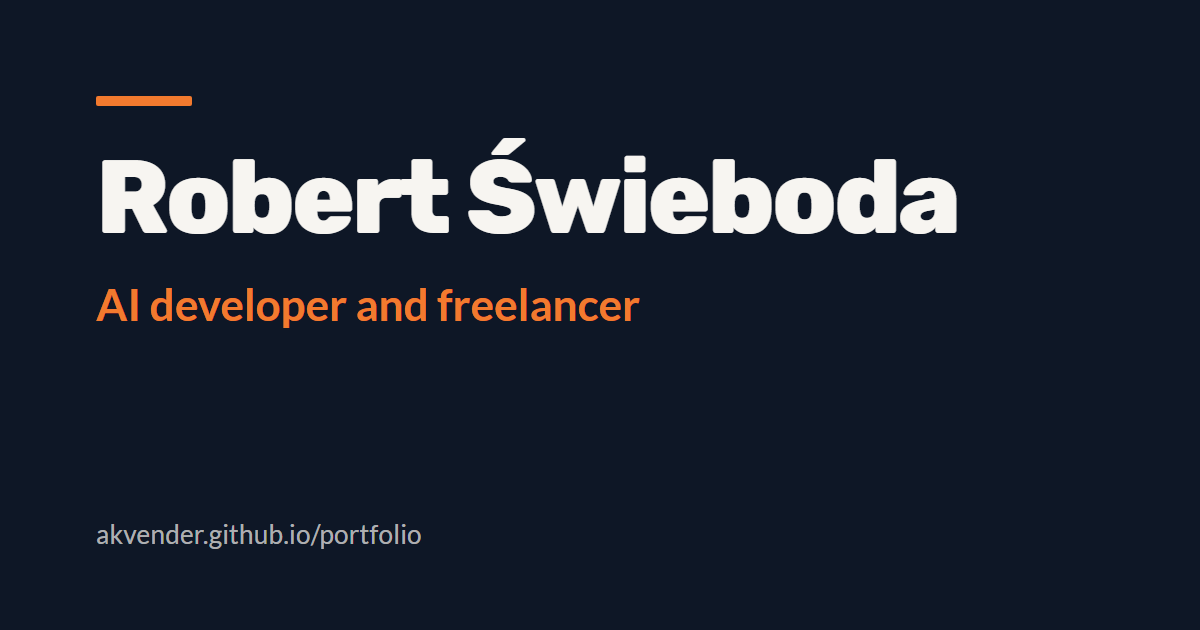
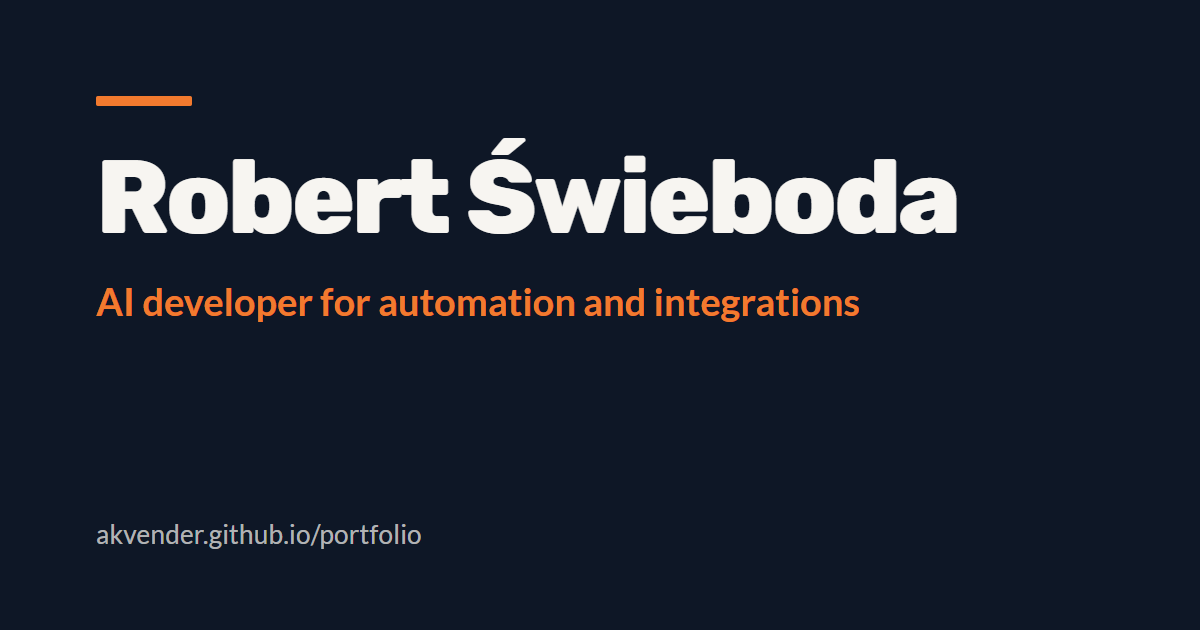
Nowy podpis zawodowy, uzupełnione opisy CRM i call-center

Changed region(s): [[0.0617, 0.4524, 0.74, 0.5127]]

diff --git a/content/projects/projekt-03.ts b/content/projects/projekt-03.ts
@@ -1,6 +1,6 @@
 import type { Project } from "./types";
 
-/** Formularze → CRM → SMS i mailing. Wdrożony i utrzymywany; liczba zgłoszeń bez potwierdzonego okresu pomiaru. */
+/** Formularze → CRM → SMS i mailing. Wdrożony i utrzymywany; 1000+ zgłoszeń w około miesiąc. */
 export const projekt03: Project = {
   slug: "formularze-crm-powiadomienia",
   number: "01",
@@ -33,6 +33,11 @@ export const projekt03: Project = {
   sections: [
     {
       type: "impact",
+      title: "Najpierw proces, potem workflow.",
+      text: "Zanim zbudowałem pierwszy workflow, poznałem potrzeby klienta i ustaliłem, które procesy automatyzujemy. Workflowy ustawiłem pod sposób pracy pracowników klienta, a nie odwrotnie.",
+    },
+    {
+      type: "impact",
       title: "Cały cykl po mojej stronie.",
       text: "Projekt, budowa, konfiguracja serwera i wdrożenie zajęły mi około dwóch miesięcy. Od tego czasu utrzymuję system: serwer, monitoring i workflowy, które łączą formularze z CRM-em i wysyłką wiadomości.",
     },
@@ -44,6 +49,7 @@ export const projekt03: Project = {
       proofs: [
         "Zgłoszenia z formularzy reklam Meta i ze strony trafiają do CRM-u bez ręcznego przepisywania.",
         "Zaraz po wysłaniu formularza klient dostaje SMS przez SMSAPI. Mailingi i powiadomienia dla zespołu wysyłają się automatycznie.",
+        "Przy błędzie po drodze workflow ponawia próbę, a deduplikacja pilnuje, żeby to samo zgłoszenie nie trafiło do CRM-u dwa razy.",
         "Monitoring i alerty pomagają wykrywać błędy również poza godzinami pracy.",
       ],
     },
@@ -73,6 +79,11 @@ export const projekt03: Project = {
     sections: [
       {
         type: "impact",
+        title: "Process first, then the workflow.",
+        text: "Before building the first workflow, I learned what the client needed and worked out which processes to automate. I set up the workflows around how the client's staff actually work, not the other way round.",
+      },
+      {
+        type: "impact",
         title: "The whole cycle on my side.",
         text: "Design, build, server setup and deployment took me about two months. Since then I have been maintaining the system: the server, the monitoring and the workflows that connect the forms to the CRM and to outgoing messages.",
       },
@@ -80,10 +91,11 @@ export const projekt03: Project = {
         type: "results",
         title: "What runs today.",
         intro: "The number of leads shows the scale the system works at. It is not a measure of savings or sales.",
-        metrics: [{ value: 1000, suffix: "+", label: "leads in the CRM" }],
+        metrics: [{ value: 1000, suffix: "+", label: "leads in the CRM in about a month" }],
         proofs: [
           "Leads from Meta ad forms and the website land in the CRM with no retyping.",
           "Right after submitting the form, the customer gets a text via SMSAPI. Mailings and team notifications go out automatically.",
+          "If a step fails, the workflow retries it, and deduplication keeps the same lead from landing in the CRM twice.",
           "Monitoring and alerts help catch errors outside working hours too.",
         ],
       },

diff --git a/content/projects/projekt-05.ts b/content/projects/projekt-05.ts
@@ -1,6 +1,6 @@
 import type { Project } from "./types";
 
-/** Call-center z transkrypcją i analizą rozmów (OZE). Zakres licznika rozmów i osobisty wkład do potwierdzenia. */
+/** Call-center z transkrypcją i analizą rozmów (OZE). Licznik obejmuje wszystkie rozmowy; osobisty wkład do potwierdzenia. */
 export const projekt05: Project = {
   slug: "call-center-analiza-rozmow",
   number: "02",
@@ -14,7 +14,7 @@ export const projekt05: Project = {
   flowIcons: ["phone", "wave", "server", "tasks"],
   featured: true,
   meta: { client: "Firma z branży OZE", role: "", period: "", status: "", stack: "Twilio · n8n · PostgreSQL · Docker" },
-  metrics: [{ value: 5000, suffix: "+", label: "rozmów w ciągu 3 miesięcy" }],
+  metrics: [{ value: 5000, suffix: "+", label: "wszystkich rozmów w ciągu 3 miesięcy" }],
   architecture: {
     columns: [
       { title: "Wejście", items: ["Rozmowy telefoniczne (Twilio)"] },
@@ -33,8 +33,8 @@ export const projekt05: Project = {
     {
       type: "results",
       title: "Skala.",
-      intro: "Licznik pokazuje skalę pracy narzędzia. Nie jest miarą jakości analizy ani wyników sprzedaży.",
-      metrics: [{ value: 5000, suffix: "+", label: "rozmów w ciągu 3 miesięcy" }],
+      intro: "Licznik obejmuje wszystkie rozmowy, które przeszły przez narzędzie. Pokazuje skalę, nie jakość analizy ani wyniki sprzedaży.",
+      metrics: [{ value: 5000, suffix: "+", label: "wszystkich rozmów w ciągu 3 miesięcy" }],
       proofs: [],
     },
   ],
@@ -64,8 +64,8 @@ export const projekt05: Project = {
       {
         type: "results",
         title: "Scale.",
-        intro: "The counter shows how much work the tool handles. It is not a measure of analysis quality or sales results.",
-        metrics: [{ value: 5000, suffix: "+", label: "calls in 3 months" }],
+        intro: "The counter covers every call that went through the tool. It shows scale, not analysis quality or sales results.",
+        metrics: [{ value: 5000, suffix: "+", label: "calls in total over 3 months" }],
         proofs: [],
       },
     ],

diff --git a/content/i18n.ts b/content/i18n.ts
@@ -18,9 +18,9 @@ const pl = {
   htmlLang: "pl",
   ogLocale: "pl_PL",
   meta: {
-    title: "AI developer i freelancer",
+    title: "AI developer od automatyzacji i integracji",
     description:
-      "Robert Świeboda, AI developer i freelancer: automatyzacje procesów, integracje systemów i narzędzia z AI. Projekty, umiejętności i kontakt.",
+      "Robert Świeboda, AI developer od automatyzacji i integracji: automatyzacje procesów, integracje systemów i narzędzia z AI. Projekty, umiejętności i kontakt.",
   },
   skipToContent: "Przejdź do treści",
   nav: {
@@ -40,7 +40,7 @@ const pl = {
   hero: {
     primary: "Zobacz projekty",
     secondary: "Porozmawiajmy o współpracy",
-    role: "AI developer · freelancer",
+    role: "AI developer od automatyzacji i integracji",
     toolsLabel: "Technologie i integracje, z których korzystam",
     scroll: "Przewiń dalej",
     pause: "Zatrzymaj przewijanie narzędzi",
@@ -121,9 +121,9 @@ const en: UI = {
   htmlLang: "en",
   ogLocale: "en_US",
   meta: {
-    title: "AI developer and freelancer",
+    title: "AI developer for automation and integrations",
     description:
-      "Robert Świeboda, AI developer and freelancer: process automation, system integrations and AI-powered tools. Projects, skills and contact.",
+      "Robert Świeboda, AI developer for automation and integrations: process automation, system integrations and AI-powered tools. Projects, skills and contact.",
   },
   skipToContent: "Skip to content",
   nav: {
@@ -143,7 +143,7 @@ const en: UI = {
   hero: {
     primary: "See projects",
     secondary: "Let's talk about working together",
-    role: "AI developer · freelancer",
+    role: "AI developer for automation and integrations",
     toolsLabel: "Technologies and integrations I work with",
     scroll: "Scroll down",
     pause: "Pause the tools ticker",

diff --git a/components/site/RootShell.tsx b/components/site/RootShell.tsx
@@ -60,7 +60,7 @@ export function profileJsonLd(lang: Lang) {
     mainEntity: {
       "@type": "Person",
       name: site.name,
-      jobTitle: "AI developer",
+      jobTitle: lang === "pl" ? "AI developer od automatyzacji i integracji" : "AI developer for automation and integrations",
       url,
       image: absoluteUrl("/images/portrait-robert.webp"),
       email: site.email,
